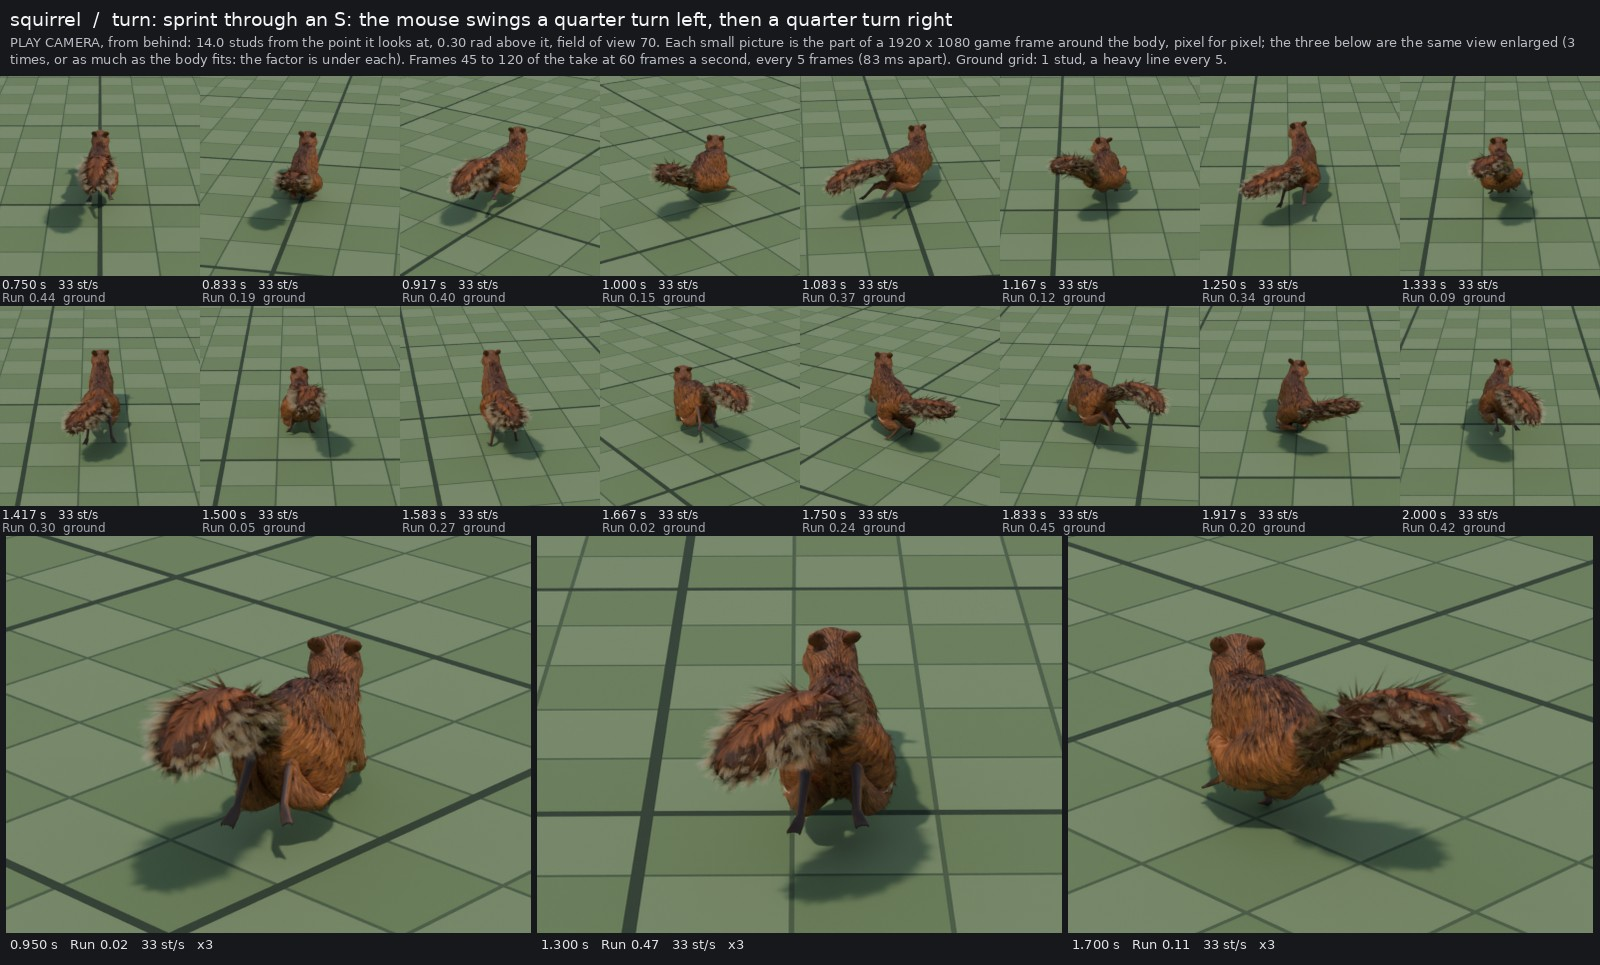
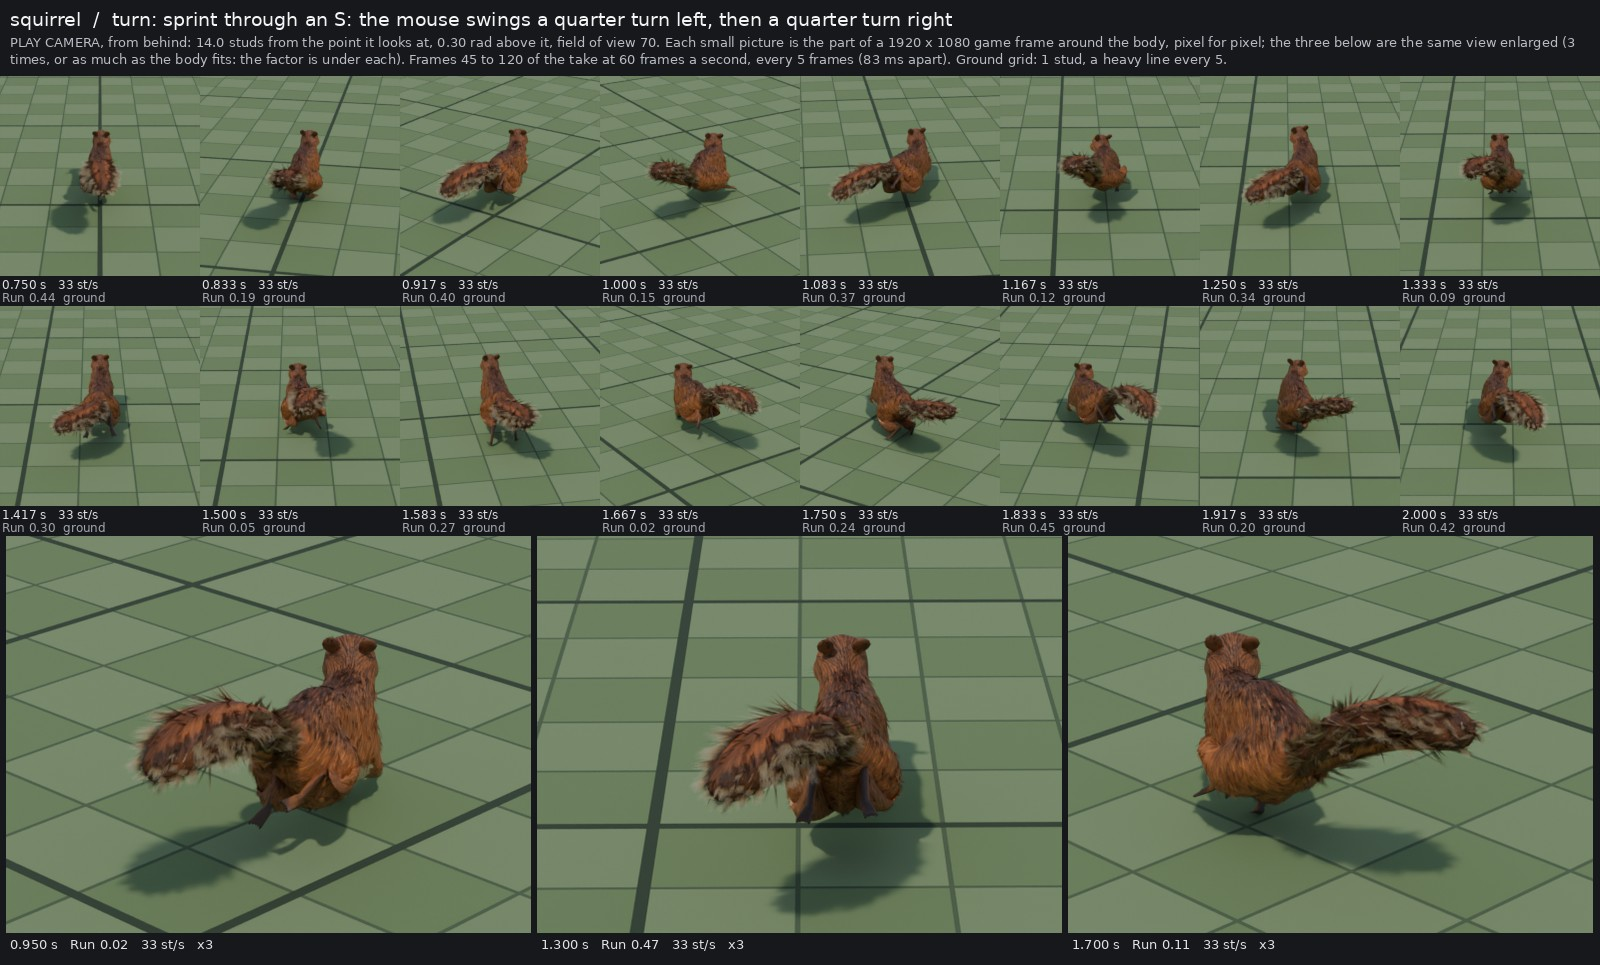
Squirrel run: hind legs tuck under the tail in flight; current motion strips; the cloud check scripts type-check clean
Seen for the first time after the bounce cut, from the play camera the legs trailed out long hung
under the body like two sticks for a third of each bound: they trail three quarters as far and fold
higher (Run clip re-uploaded with both models). The squirrel's sprint, walk and turn strips in
docs/renders/heroes/motion are re-rendered from this build.
The seventeen known type errors in tools/cloud/tasks are fixed (rows for JSON reports given their type,
two root parts stated). Known type errors: 83 -> 66, all in src/worldgen and tests/engine.

Claude-Session: https://claude.ai/code/session_01M7kvU21XVNfCAcdQZ7o6vh

diff --git a/tools/blender/heroes/clips_squirrel.py b/tools/blender/heroes/clips_squirrel.py
@@ -347,8 +347,11 @@ def run(rig, n=14):
                 tp={0: 0.2, 2: 0.25, 3: 2.2, 5: 2.6, 7: 1.2, 8: 0.4, 10: 0.2, 13: 0.2}, splay=0.2, ground=0.034)
     # a hind foot: trail straight back after the push, fold, swing in low and wide of the forelegs, land flat
     hind = Limb(n, 3, S, -0.22, 0.255,
-                y={4: 1.18, 5: 1.42, 6: 1.42, 7: 1.36, 8: 1.28, 9: 1.15, 10: 0.80, 11: 0.30, 12: -0.05, 13: -0.36},
-                z={4: 0.20, 5: 0.42, 6: 0.50, 7: 0.50, 8: 0.46, 9: 0.42, 10: 0.30, 11: 0.14, 12: 0.17, 13: 0.12},
+                # (seen from the play camera, above and behind, legs trailed out long hung under the body like
+                # two sticks for a third of each bound: they trail three quarters as far and fold up higher,
+                # under the tail)
+                y={4: 0.98, 5: 1.08, 6: 1.08, 7: 1.04, 8: 0.98, 9: 0.90, 10: 0.68, 11: 0.30, 12: -0.05, 13: -0.36},
+                z={4: 0.24, 5: 0.48, 6: 0.58, 7: 0.58, 8: 0.53, 9: 0.47, 10: 0.32, 11: 0.14, 12: 0.17, 13: 0.12},
                 fp={0: 0.25, 1: 0.35, 2: 0.9, 3: 1.5, 4: 2.2, 5: 2.75, 6: 2.9, 7: 2.9, 8: 2.8, 9: 2.7, 10: 2.2, 11: 1.2, 12: 0.6, 13: 0.3},
                 tp={0: 0.1, 3: 0.1, 4: 1.9, 5: 2.7, 6: 2.9, 7: 2.9, 8: 2.8, 9: 2.6, 10: 1.9, 11: 0.7, 12: 0.4, 13: 0.15},
                 splay={0: 0.55, 3: 0.15, 6: 0.1, 9: 0.15, 11: 0.45, 13: 0.6}, xs={5: 0.21, 7: 0.18, 10: 0.18, 12: 0.24, 13: 0.255}, ground=0.042)
